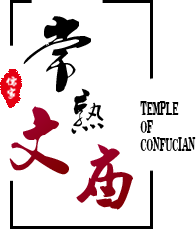
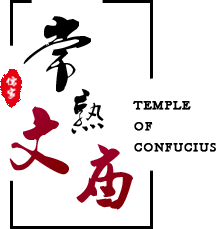
修改CSS 跟 配置文件

diff --git a/viewpoint-web/viewpoint-www/src/main/resources/templates/view/nffz.html b/viewpoint-web/viewpoint-www/src/main/resources/templates/view/nffz.html
@@ -6,19 +6,19 @@
 <div th:replace="common/footer :: footer('1','4')"></div>
   <div class="mui-content fuzi">
     <div class="video-box">
-      <video th:src="@{/img/movie.mp4}" src="../img/movie.mp4" controls="controls">
+      <video th:src="${view?.viewMp4}" src="../img/movie.mp4" controls="controls">
       your browser does not support the video tag
       </video>
     </div>
     <div class="w">
       <div class="seprow"></div>
       <div class="para">
-        <p>出生于吴地（常熟）的言偃，为孔子唯一之南方弟子，位列孔门十哲之一，是江南文化始祖，尊为“南方夫子”。自唐代后被历代朝廷追封为“吴公”、“吴国公”和“先贤言子”，在中国传统文化史上有重要地位。常熟文庙将言子作为仅次于孔子的祭祀对象，单独设祠，自成轴线，体现了常熟地方对邑人言子的极大尊崇，也是常熟文庙建筑的一大特色。</p>
+        <p th:text="${view?.viewDes}">出生于吴地（常熟）的言偃，为孔子唯一之南方弟子，位列孔门十哲之一，是江南文化始祖，尊为“南方夫子”。自唐代后被历代朝廷追封为“吴公”、“吴国公”和“先贤言子”，在中国传统文化史上有重要地位。常熟文庙将言子作为仅次于孔子的祭祀对象，单独设祠，自成轴线，体现了常熟地方对邑人言子的极大尊崇，也是常熟文庙建筑的一大特色。</p>
       </div>
     </div>
     <div class="tag_main">功绩</div>
     <div class="w">
-      <div class="para">
+      <div class="para" th:utext="${view?.viewContent}">
         <p>出生于吴地（常熟）的言偃，为孔子唯一之南方弟子，位列孔门十哲之一，是江南文化始祖，尊为“南方夫子”。自唐代后被历代朝廷追封为“吴公”、“吴国公”和“先贤言子”，在中国传统文化史上有重要地位。常熟文庙将言子作为仅次于孔子的祭祀对象，单独设祠，自成轴线，体现了常熟地方对邑人言子的极大尊崇，也是常熟文庙建筑的一大特色。</p>
         <p>出生于吴地（常熟）的言偃，为孔子唯一之南方弟子，位列孔门十哲之一，是江南文化始祖，尊为“南方夫子”。自唐代后被历代朝廷追封为“吴公”、“吴国公”和“先贤言子”，在中国传统文化史上有重要地位。常熟文庙将言子作为仅次于孔子的祭祀对象，单独设祠，自成轴线，体现了常熟地方对邑人言子的极大尊崇，也是常熟文庙建筑的一大特色。</p>
         <p>出生于吴地（常熟）的言偃，为孔子唯一之南方弟子，位列孔门十哲之一，是江南文化始祖，尊为“南方夫子”。自唐代后被历代朝廷追封为“吴公”、“吴国公”和“先贤言子”，在中国传统文化史上有重要地位。常熟文庙将言子作为仅次于孔子的祭祀对象，单独设祠，自成轴线，体现了常熟地方对邑人言子的极大尊崇，也是常熟文庙建筑的一大特色。</p>

diff --git a/viewpoint-web/viewpoint-www/src/main/resources/templates/activity/item.html b/viewpoint-web/viewpoint-www/src/main/resources/templates/activity/item.html
@@ -11,7 +11,7 @@
         <label>活动列表</label>
       </div>
       <div class="content">
-        <div class="mui-card" th:each="activity : ${activityList}">
+        <div class="mui-card" th:each="activity : ${activityList}" th:classappend="(${#strings.equals(activity.activityStatus,'已<br>结<br>束')})? 'over' : ''">
           <a th:href="@{'/activity/detail/'+${activity.activityId}}" href="javascript:" data-ajax="false">
             <div class="box">
               <img th:src="${activity.activityLogo}" src="../img/activity/main.jpg" class="bigmainpic">
@@ -22,7 +22,8 @@
                 </div>
                 <div class="num">
                   <span class="state" th:text="${activity.orderStatus}"></span>
-                  <span th:unless="${#strings.trim(activity.activityStatus).equalsIgnoreCase('已<br>结<br>束')}">名额紧张</span>
+                  <!--<span th:if="${activity.orderCount gt activity.buyLimit / 2 }">名额紧张</span>-->
+                  <span>名额紧张</span>
                   <span><em th:text="${activity.hot}">2316</em>阅读</span>
                   <span><em th:text="${activity.orderCount}">1000</em>报名</span>
                 </div>
@@ -37,7 +38,7 @@
     <div class="tag_main">青少年活动</div>
     <div class="w">
       <div class="content">
-        <div class="mui-card" th:each="activity : ${youngList}">
+        <div class="mui-card" th:each="activity : ${youngList}" th:classappend="(${#strings.equals(activity.activityStatus,'已<br>结<br>束')})? 'over' : ''">
           <a th:href="@{'/activity/detail/'+${activity.activityId}}" href="javascript:" data-ajax="false">
             <div class="box">
               <img th:src="${activity.activityLogo}" src="../img/activity/main.jpg" class="bigmainpic">

diff --git a/viewpoint-web/viewpoint-www/src/main/resources/templates/view/kjwh.html b/viewpoint-web/viewpoint-www/src/main/resources/templates/view/kjwh.html
@@ -10,7 +10,7 @@
         <img th:src="@{/img/spot/keju/icon.png}" src="../img/spot/keju/icon.png">
         <label>科举文化</label>
       </div>
-      <div class="para">
+      <div class="para" th:utext="${view?.viewContent}">
         <p>科举制度是中国历史上考试选拔官员的一种基本制度。创始于隋朝，确立于唐朝，完备于宋朝，兴盛于明、清两朝，废除于清末，从隋朝大业元年（605）的进士科算起到光绪三十一年（1905）正式废除，整整存在了1300年。</p>
         <p>科举制度的产生是历史的必然和一大进步，尽管产生过种种流弊，但它秉着“自由报名、公开考试、平等竞争、择优取士”的原则，给广大士人通过其阶梯而登上仕途，提供了一个公平竞争的平台、机会和条件，为国家选拔了大量真才，促进了教育事业和文化艺术的进步。因此，科举制度被视为中国历史上乃至世界历史上最具开创性和平等性的官吏人才选拔制度，它对西方近代文官制度的形成也产生了重要影响。</p>
         <p>在漫长的1300年的科举考试中，共产生出700多名状元、十余万名进士、数百万名举人以及不计其数的秀才。隋唐以后，绝大多数士人与科举考试有着不解之缘。常熟作为崇文尚教之邦，人才辈出，先后产生了八位状元、486位进士、1000多位举人和数量众多的秀才。他们把应举视作为国家效力、实现人生抱负的重要途径。他们中间有治国安邦的名臣、名相，有贡献杰出的政治家、思想家、文学家、艺术家、科学家、外交家、军事家。他们的聪明才智在中国历史上留下了重彩浓墨的篇章。</p>

diff --git a/viewpoint-web/viewpoint-www/src/main/resources/static/css/common.css b/viewpoint-web/viewpoint-www/src/main/resources/static/css/common.css
@@ -127,8 +127,9 @@ body, html { width: 100%; height: 100%; position: relative; }
 
 .cover-page { position: absolute; left: 0; right: 0; top: 0; bottom: 0; background: url(../img/cover/cover.jpg) 50% 50% no-repeat; background-size: cover; }
 .cover-page img { max-width: 100%; }
-.cover-page .wenmiao { position: absolute; left: 5%; top: 5%; width: 98px; }
+.cover-page .wenmiao { position: absolute; left: 5%; top: 5%; width: 108px; }
 .cover-page .text { position: absolute; left: 50%; top: 50%; -webkit-transform: translate3d(-50%, -55%, 0); transform: translate3d(-50%, -55%, 0); width: 32px; }
+.cover-page .copyright { position: absolute; bottom: 20px; left: 0; right: 0; font-size: 8px; color: #fffefe; text-align: center; text-decoration: underline; }
 
 .footer { display: -webkit-box; display: -ms-flexbox; display: flex; position: fixed; z-index: 1000; bottom: 0; width: 100%; height: 50px; background-color: #f4f3f3; }
 .footer .item { display: block; -webkit-box-flex: 1; -ms-flex: 1; flex: 1; padding: 5px 0 0; font-size: 0; text-align: center; -webkit-tap-highlight-color: rgba(0, 0, 0, 0); }

diff --git a/viewpoint-web/viewpoint-www/src/main/resources/templates/view/zfgh.html b/viewpoint-web/viewpoint-www/src/main/resources/templates/view/zfgh.html
@@ -6,14 +6,14 @@
 <div th:replace="common/footer :: footer('1','3')"></div>
   <div class="mui-content zhengfu">
     <div class="mainpic">
-      <img th:src="@{/img/spot/zhengfu/main.jpg}" src="../img/spot/zhengfu/main.jpg">
+      <img th:src="${view?.viewIcon}" src="../img/spot/zhengfu/main.jpg">
     </div>
     <div class="w">
       <div class="title">
         <img th:src="@{/img/spot/zhengfu/icon.png}" src="../img/spot/zhengfu/icon.png">
         <label>政府关怀</label>
       </div>
-      <div class="para">
+      <div class="para" th:utext="${view?.viewContent}">
         <p>常熟作为国务院公布的第二批国家历史文化名城，历史文化遗产非常丰富，目前常熟全市共有各级文物保护单位170处，其中全国重点文物保</p>
         <img src="../img/spot/zhengfu/pic1.jpg">
         <p>常熟作为国务院公布的第二批国家历史文化名城，历史文化遗产非常丰富，目前常熟全市共有各级文物保护单位170处，其中全国重点文物保</p>

diff --git a/viewpoint-web/viewpoint-www/src/main/resources/templates/member/my.html b/viewpoint-web/viewpoint-www/src/main/resources/templates/member/my.html
@@ -16,13 +16,13 @@
       <div data-role="collapsible" class="item">
         <h4><img th:src="@{/img/my/my_icon_1.png}" src="../img/my/my_icon_1.png">我的足迹<span class="arrow"></span></h4>
         <ul data-role="listview">
-          <a href="#" th:each="history : ${historyList}">
+          <a href="#" th:each="history : ${historyList}" th:href="@{'/exhibit/detail/'+${history.exhibit.exhibitsId}}" data-ajax="false">
             <img th:src="${history.exhibit.exhibitsIcon}" src="../img/my/foot-1.jpg">
           </a>
         </ul>
       </div>
       <div data-role="collapsible" class="item myactivity">
-        <h4><img th:src="@{/img/my/my_icon_2.png}" src="../img/my/my_icon_2.png">我的活动<span class="arrow"></span></h4>
+        <h4><a th:href="@{/member/activity}" data-ajax="false"><img th:src="@{/img/my/my_icon_2.png}" src="../img/my/my_icon_2.png">我的活动<span class="arrow"></span></a></h4>
       </div>
     </div>
   </div>

diff --git a/viewpoint-web/viewpoint-www/src/main/resources/templates/view/wmjs.html b/viewpoint-web/viewpoint-www/src/main/resources/templates/view/wmjs.html
@@ -6,7 +6,7 @@
 <div th:replace="common/footer :: footer('1','0')"></div>
   <div class="mui-content introduce">
     <div class="video-box">
-    	<video th:src="@{/img/movie.mp4}" src="../img/movie.mp4" controls="controls">
+    	<video th:src="${view?.viewMp4}" src="../img/movie.mp4" controls="controls">
       your browser does not support the video tag
       </video>
     </div>
@@ -15,7 +15,7 @@
     	  <img th:src="@{/img/spot/introduce/icon.png}" src="../img/spot/introduce/icon.png">
     	  <label>文庙介绍</label>
     	</div>
-      <div class="para">
+      <div class="para" th:utext="${view?.viewContent}">
         <p>常熟文庙坐落于古城区东南学前街。这里是宋元明清四朝常熟教育文化中心，培育出了众多名相贤臣以及各个领域的专门人才，在常熟历史上占</p>
         <img th:src="@{/img/spot/introduce/pic1.jpg}" src="../img/spot/introduce/pic1.jpg">
       </div>

diff --git a/viewpoint-web/viewpoint-www/src/main/resources/templates/member/activity.html b/viewpoint-web/viewpoint-www/src/main/resources/templates/member/activity.html
@@ -13,13 +13,13 @@
       <div class="mui-card">
         <ul>
           <li th:each="activity : ${activityOrderList}">
-            <span th:text="${activity.orderStatus}">2018年“文化和自然遗2018年“文化和自然遗</span>
-            <em>已结束</em>
+            <span th:text="${activity.buyerName}">2018年“文化和自然遗2018年“文化和自然遗</span>
+            <!--<em>已结束</em>-->
           </li>
-          <li>
+          <!--<li>
             <span>2018年“文化和自然遗2018年“文化和自然遗</span>
             <em>已参与</em>
-          </li>
+          </li>-->
         </ul>
       </div>
     </div>

diff --git a/viewpoint-web/viewpoint-www/src/main/resources/templates/area/guide.html b/viewpoint-web/viewpoint-www/src/main/resources/templates/area/guide.html
@@ -13,7 +13,7 @@
   <div data-role="popup" th:each="area : ${areaList}" th:id="${area.areasId}" id="" class="g-popup" data-overlay-theme="b">
     <a href="#" data-rel="back" class="close-btn">×</a>
     <div class="p-title" th:text="${area.areasName}">棂星门</div>
-    <div class="dt uf">
+    <!--<div class="dt uf">
       <div class="pic">
         <img th:src="${area.areasLogo}" src="../img/guide/pic1.jpg">
       </div>
@@ -29,7 +29,7 @@
         Your browser does not support the audio element.
         </audio>
       </div>
-    </div>
+    </div>-->
   </div>
   <script th:src="@{/js/guide.js}" src="../js/guide.js"></script>
   <script>

diff --git a/viewpoint-web/viewpoint-www/src/main/resources/templates/view/wwjs.html b/viewpoint-web/viewpoint-www/src/main/resources/templates/view/wwjs.html
@@ -10,7 +10,7 @@
         <img th:src="@{/img/spot/wenwu/icon.png}" src="../img/spot/wenwu/icon.png">
         <label>文物介绍</label>
       </div>
-      <div class="para">
+      <div class="para" th:utext="${view?.viewContent}">
         <p>江苏常熟是国家历史文化名城，是春秋先贤言子的故里。言子是“孔门十哲”之一，他继承了孔子的儒学思想传统并加以传播和发展，“道启东</p>
       </div>
     </div>

diff --git a/viewpoint-web/viewpoint-www/src/main/resources/templates/common/footer.html b/viewpoint-web/viewpoint-www/src/main/resources/templates/common/footer.html
@@ -19,7 +19,7 @@
         <div class="pic"></div>
         <div class="text">活动</div>
     </a>
-    <a th:href="@{/member/12313213123}" data-ajax="false" href="我的.html" class="item my normal" th:classappend="(${flag} eq 4)? 'active'">
+    <a th:href="@{/member/center}" data-ajax="false" href="我的.html" class="item my normal" th:classappend="(${flag} eq 4)? 'active'">
         <div class="pic"></div>
         <div class="text">我的</div>
     </a>

diff --git a/viewpoint-web/viewpoint-www/src/main/resources/templates/view/wwjs-detail.html b/viewpoint-web/viewpoint-www/src/main/resources/templates/view/wwjs-detail.html
@@ -1,6 +1,6 @@
 <!DOCTYPE html>
 <html xmlns:th="http://www.thymeleaf.org">
-<head th:replace="common/head :: head('景点-文物介绍内页','/css/spot.css')"></head>
+<head th:replace="common/head :: head(${goodsCategory.goodsName},'/css/spot.css')"></head>
 
 <body>
 <div th:replace="common/footer :: footer('1','5')"></div>
